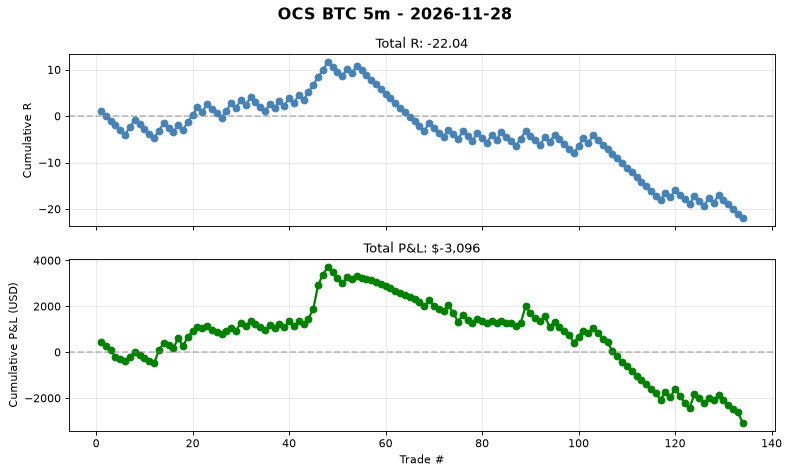
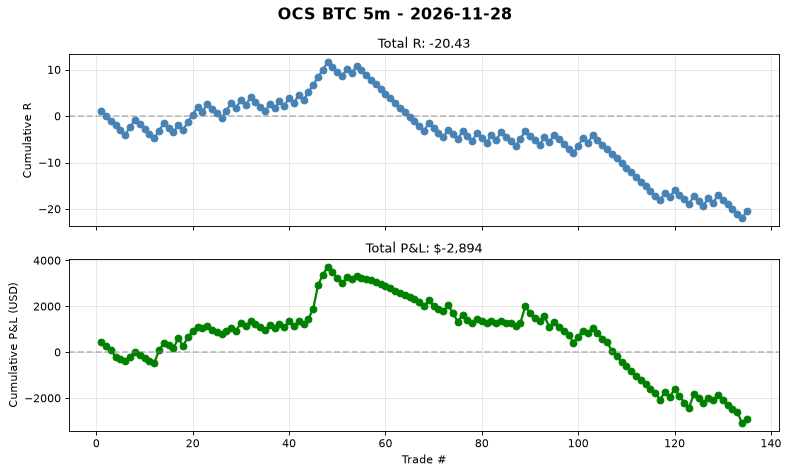
auto(ocs-btc): signal log 2026-11-28T04:49 trades=135

diff --git a/automation/reports/ocs_btc_5m/daily/2026-11-28.md b/automation/reports/ocs_btc_5m/daily/2026-11-28.md
@@ -1,5 +1,37 @@
 # OCS BTC 5m - 2026-11-28
 
-**No trades today.**
+## Summary
+- **Trades**: 1 (1W / 0L)
+- **Win Rate**: 100.0%
+- **Total R**: +1.62R
+- **Total P&L**: $+202
+- **Avg R**: +1.62R
+- **Profit Factor**: 0.78
 
-Cumulative stats: 134 trades | WR 32.1% | avg R -0.165
+## Exit Breakdown
+- T1 (+1.0R): 1
+- T2 (+1.618R): 43
+- T3 (+2.618R): 0
+- T4 (+3.618R): 0
+- T5 (+5.0R): 0
+- SL (-1.0R): 91
+
+## Best Trade
+- **LONG** at 59,769 -> T2 59,972
+- R = +1.62, P&L = $+202
+- Held for 23 bars
+
+## Worst Trade
+- **LONG** at 59,769 -> T2 59,972
+- R = +1.62, P&L = $+202
+- Held for 23 bars
+
+## Cumulative Stats (Lifetime)
+- Total trades: 135
+- WR: 32.6%
+- Avg R: -0.151
+- Total R: -20.43R
+- Profit Factor: 0.78
+
+## Chart
+See `daily/2026-11-28.png` for cumulative P&L curve.
